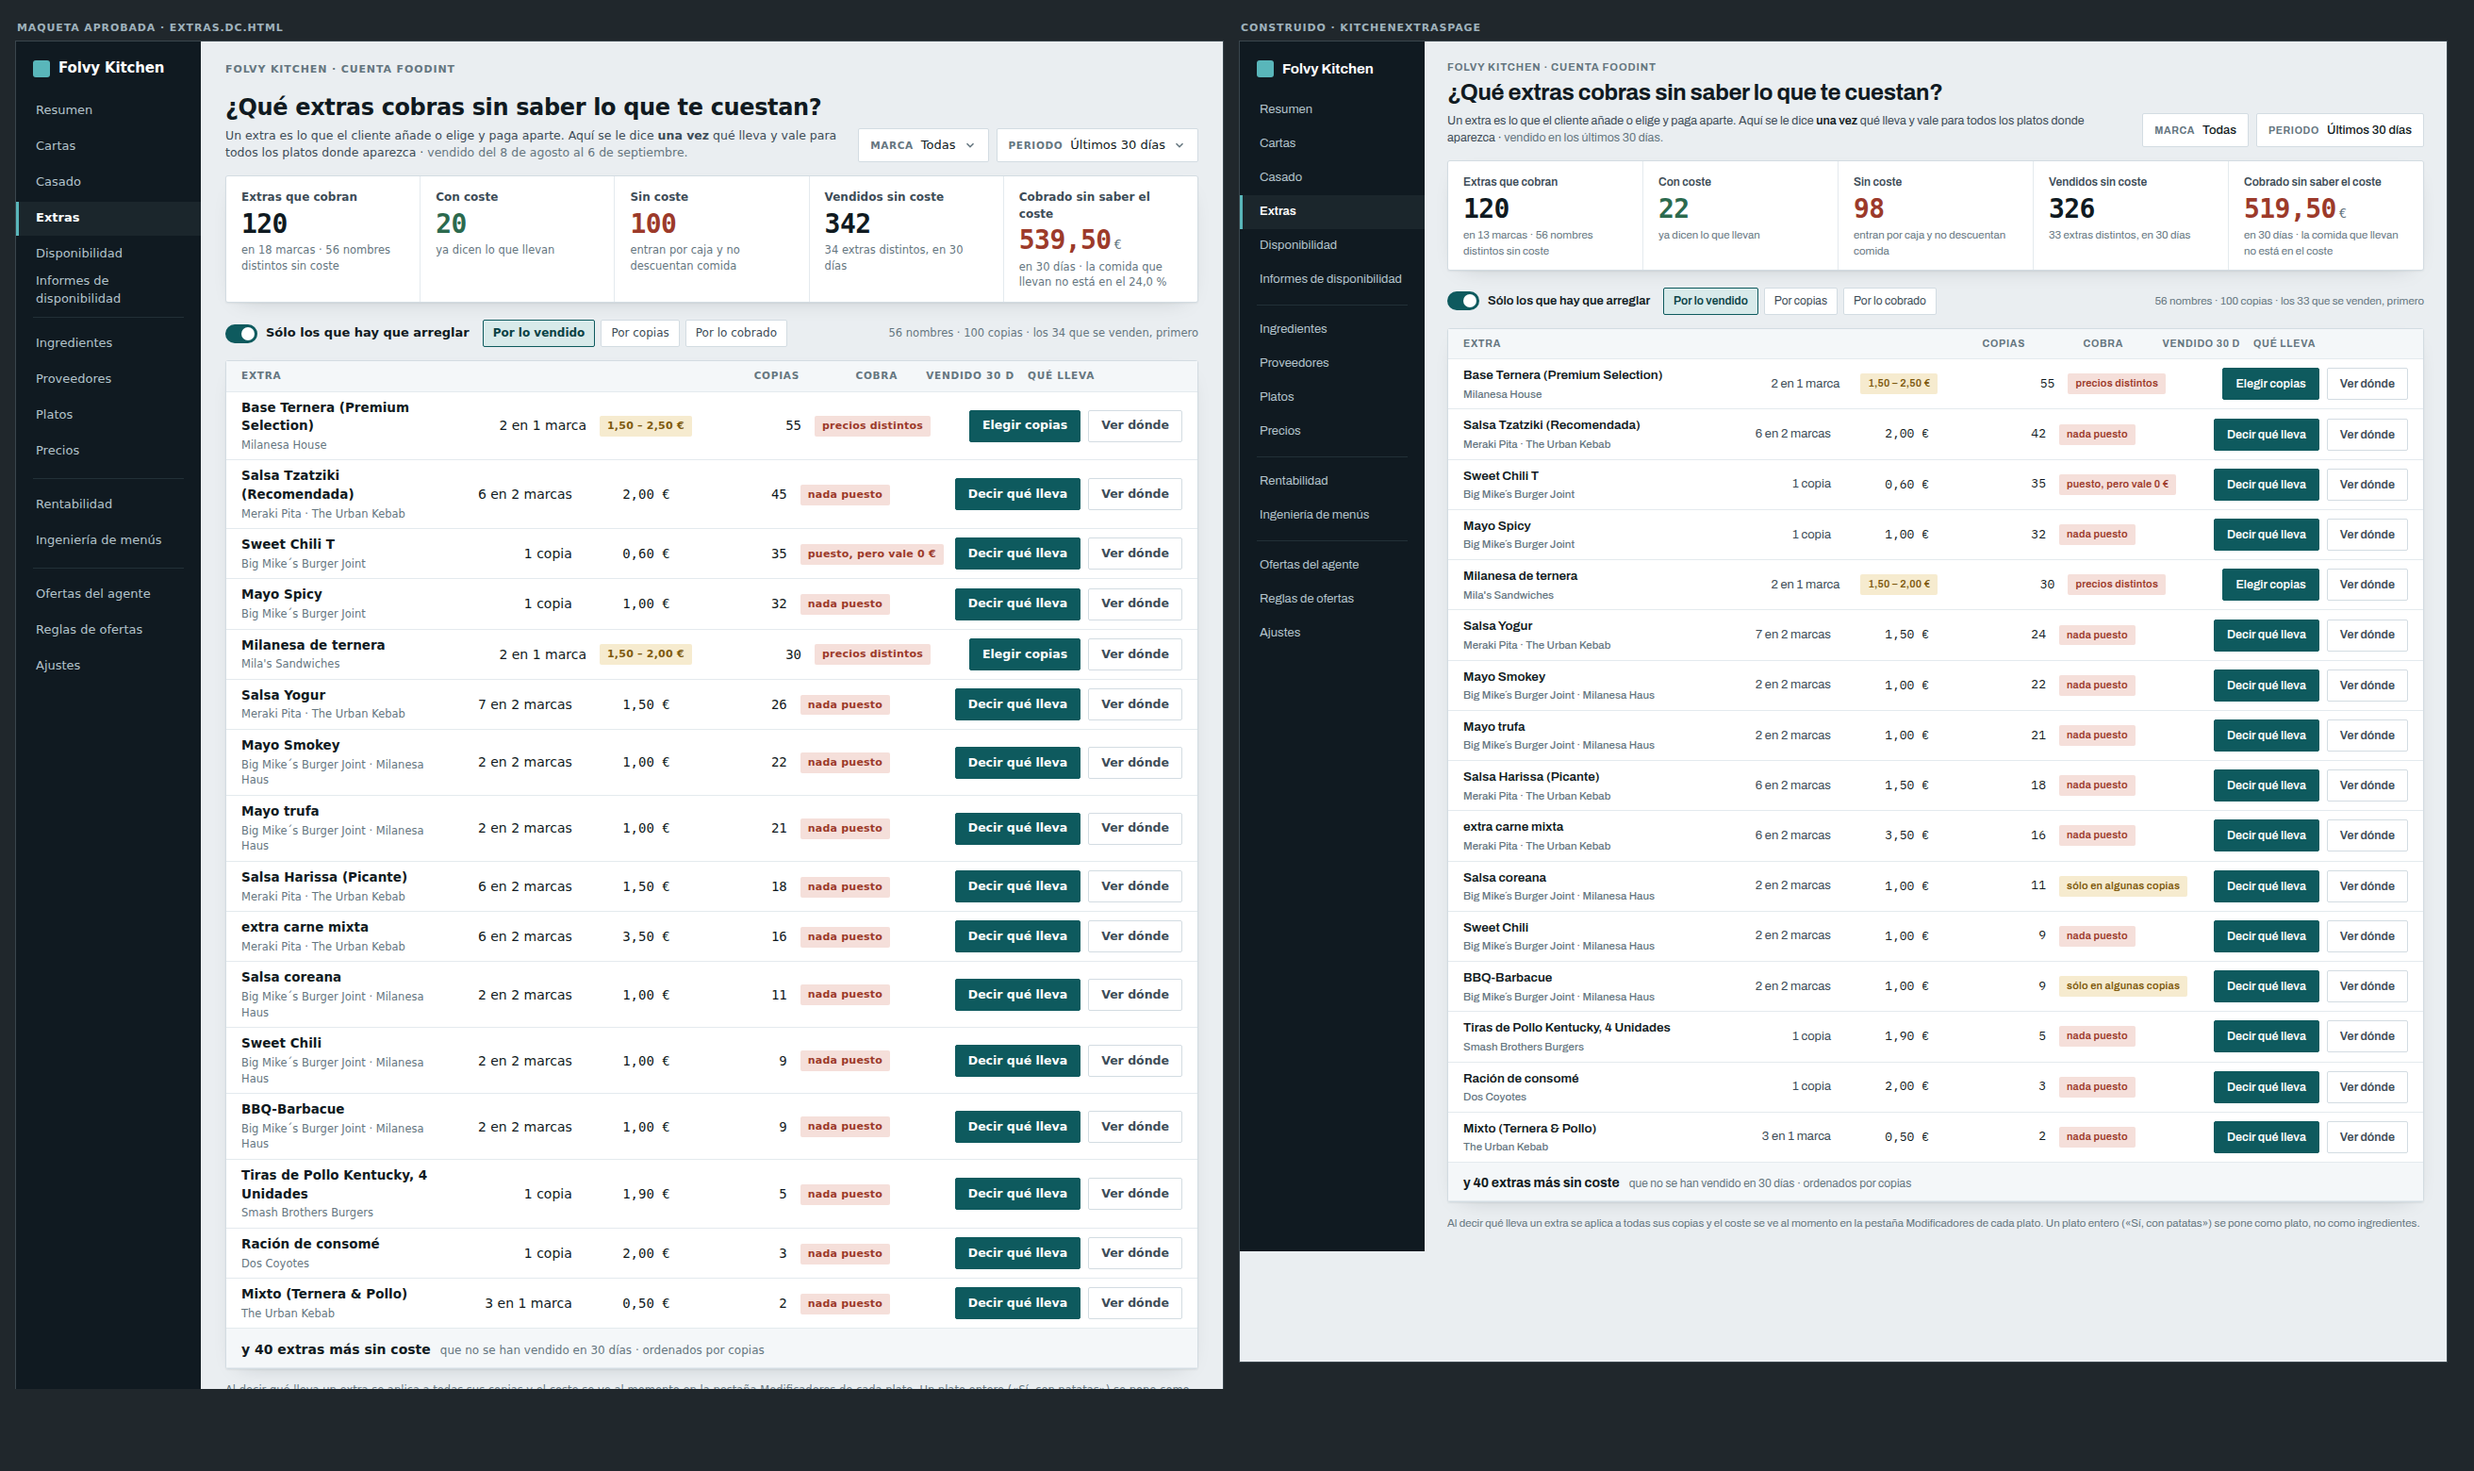
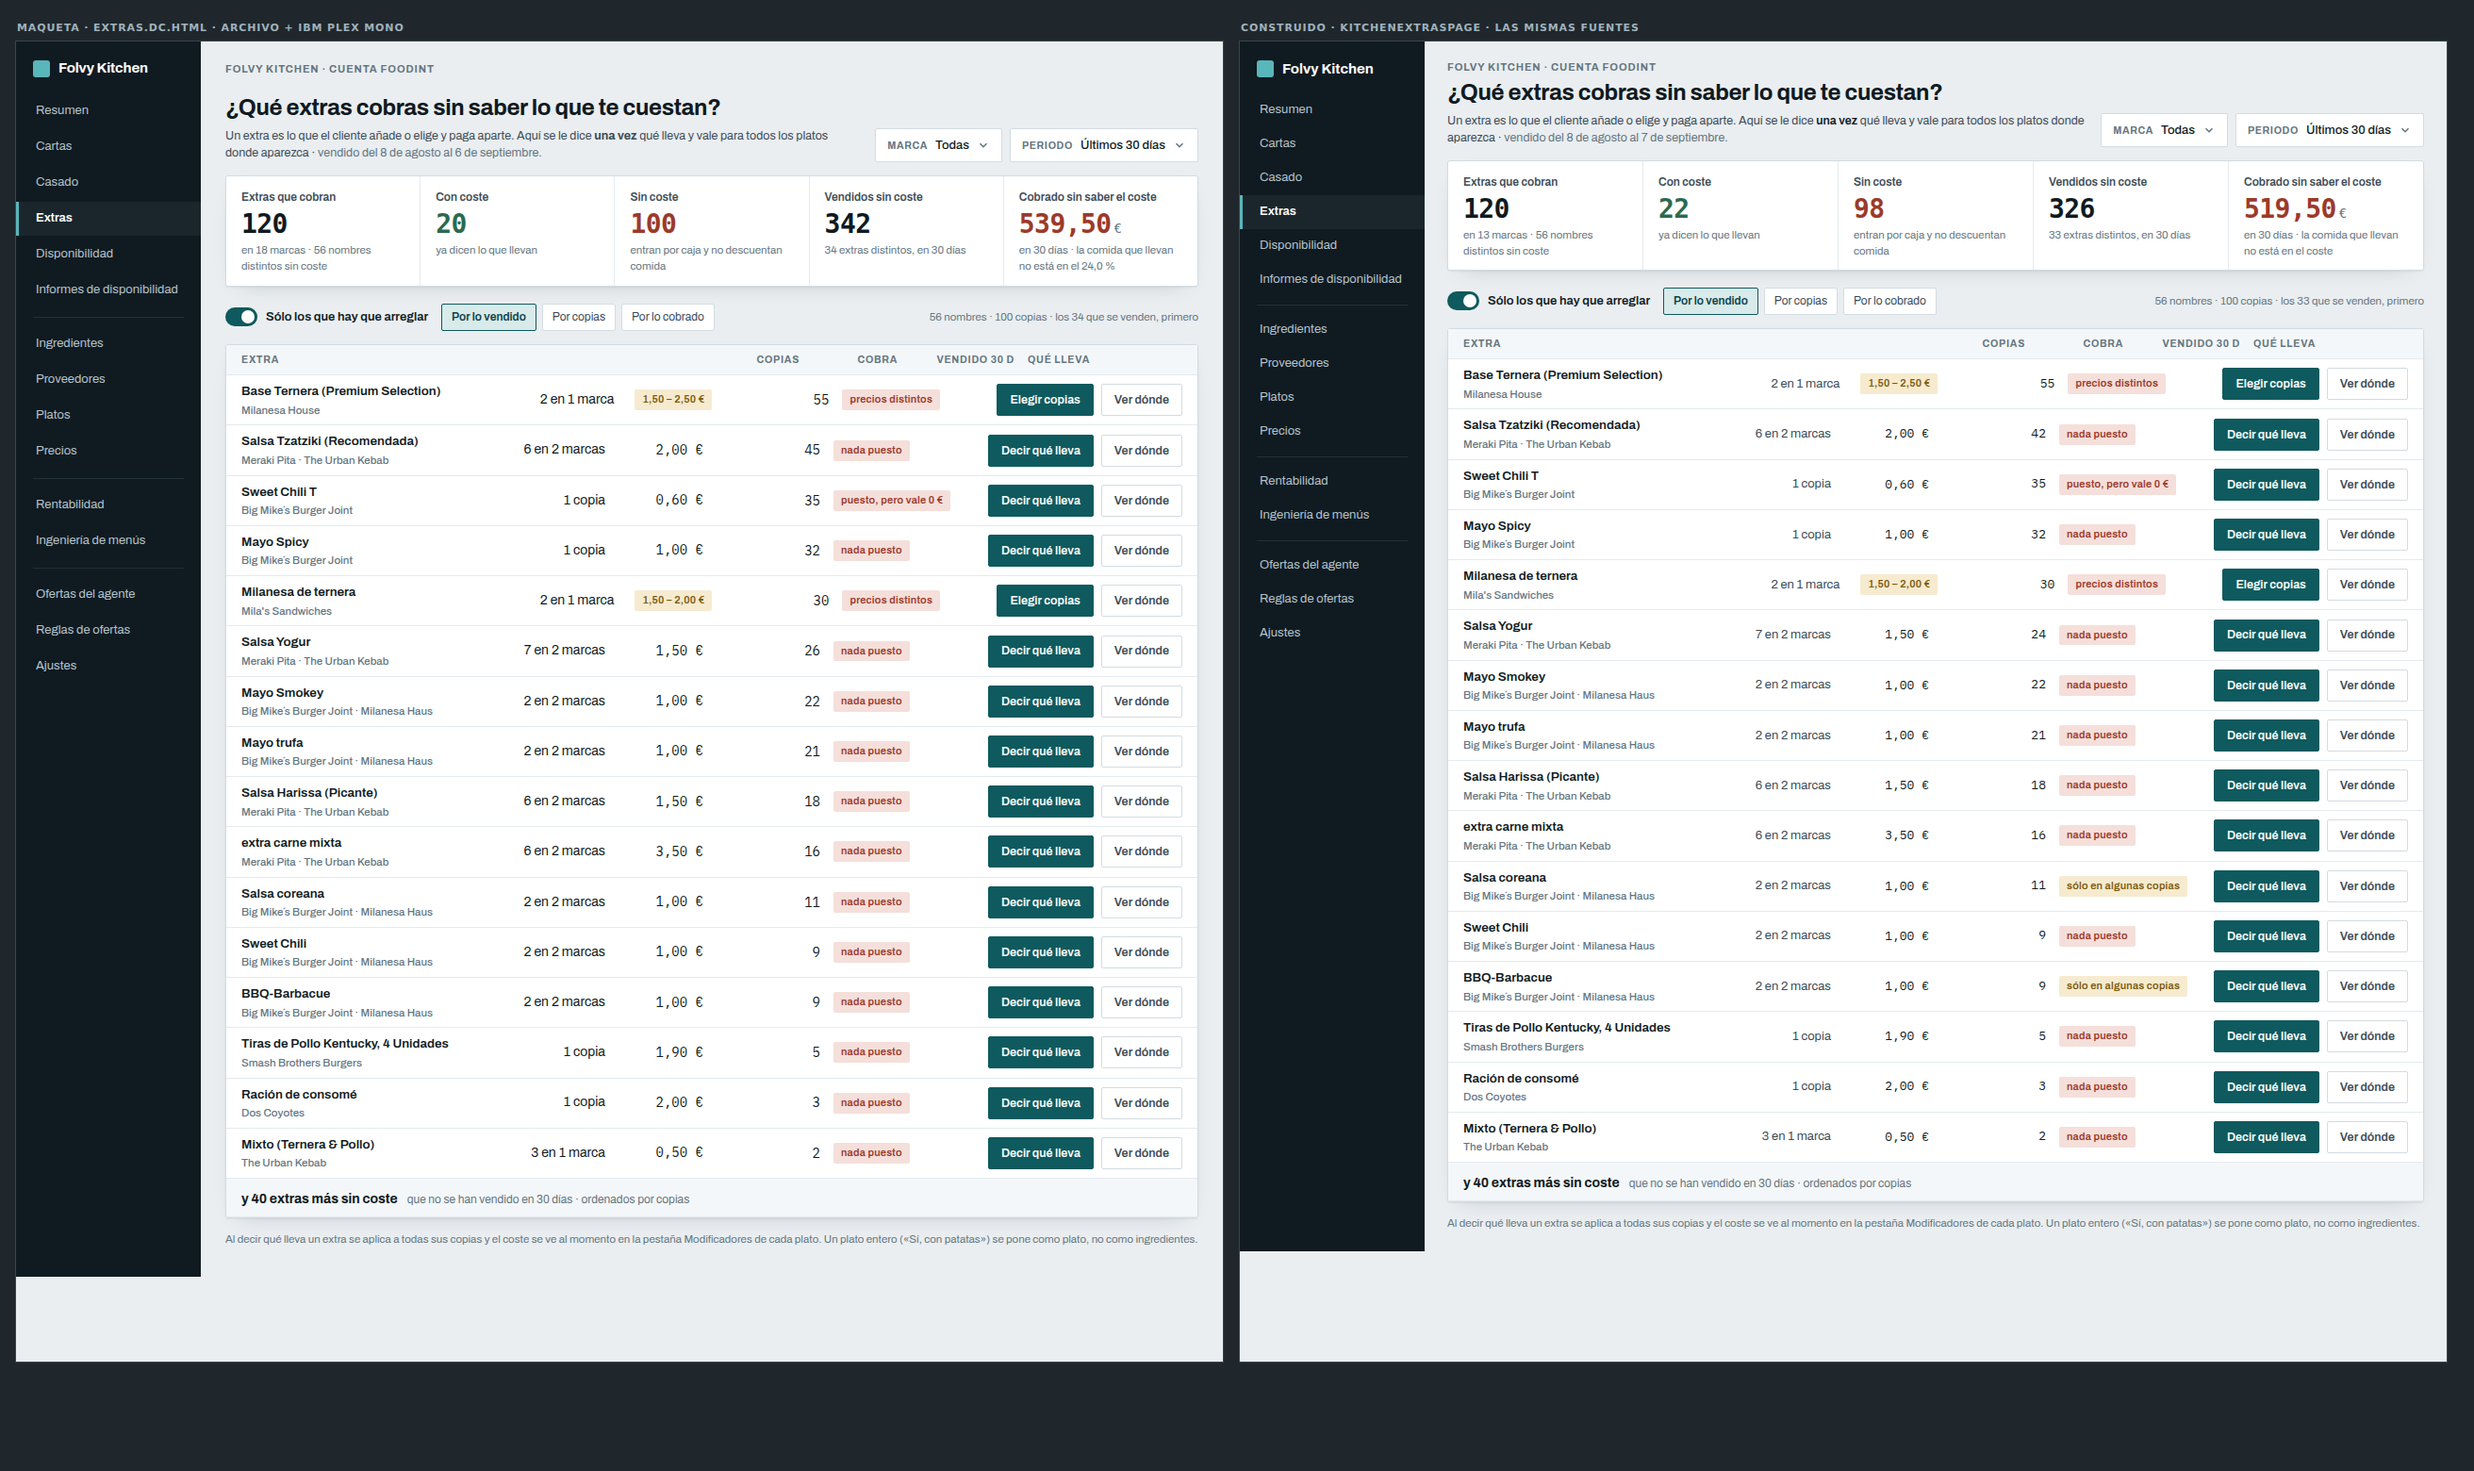
Extras: fechas reales, flecha en los selectores, y la comparación con las dos mitades en las mismas condiciones
Las tres del §14.

1. EL SUBTÍTULO PINTA LAS FECHAS. «Los últimos 30 días» obliga a echar la
   cuenta de cabeza y no dice desde cuándo, que es lo que hace falta para
   juzgar un número de ventas. Ahora: «vendido del 8 de agosto al 7 de
   septiembre», con `intervaloDeFechas` —la de Informes— y dos ajustes que
   cambian lo que dice, así que van escritos: a días enteros (con la hora tal
   cual sale «hasta las 15:00», que es el dato en Informes y ruido aquí) y con
   la medianoche de mañana como límite, porque es exclusivo: dejándolo en hoy
   diría «al 6» y se comería lo vendido hoy, que sí está contado.

   La lógica sale a `lib/` para poder probarla: 5 pruebas, incluida la del
   cambio de año y la de B82 —una fecha ilegible devuelve null y la cabecera se
   pinta, no revienta.

2. LA FLECHA en Marca y Periodo, la misma de la maqueta (14×14, trazo 1.8).
   Sin ella el campo parece una etiqueta y nadie descubre que se abre.

3. LA COMPARACIÓN TENÍA UN LADO COJO y el diagnóstico de Julio era exacto: el
   lado de la maqueta iba con DejaVu porque yo sólo había incrustado las
   fuentes en el lado construido. Todo lo que parecía diferencia de maquetación
   —nombres partidos en dos líneas, filas más altas— era artefacto de la
   tipografía. Ahora la maqueta se renderiza aquí desde su propio
   `Extras.dc.html` con Archivo e IBM Plex Mono incrustadas, igual que el
   construido: los nombres caben en una línea en los DOS lados y las alturas de
[…]

diff --git a/src/modules/kitchen/pages/KitchenExtrasPage.tsx b/src/modules/kitchen/pages/KitchenExtrasPage.tsx
@@ -22,6 +22,7 @@ import { useEffect, useMemo, useState } from 'react'
 import { ChevronRight } from 'lucide-react'
 import { useActiveAccount } from '@/modules/multitenancy/hooks/useActiveAccount'
 import { useApp } from '@/context/AppContext'
+import { intervaloDeFechas } from '@/modules/ventas/services/textoInforme'
 import EstadoDeLaConsulta from '@/modules/kitchen/components/EstadoDeLaConsulta'
 import {
   CabeceraCocina, CampoCocina, CifrasCocina, CifraCocina,
@@ -34,7 +35,7 @@ import { kindOf, TIPOS_ELEGIBLES, type CatalogPick } from '@/modules/kitchen/lib
 import type { UnidadPick } from '@/modules/kitchen/lib/impactoResuelto'
 import FlujoDeExtra from '@/modules/kitchen/components/FlujoDeExtra'
 import {
-  ORDENES, confirmacion, cuantasCopias, loQueCobra, queLleva, botonDeLaFila,
+  ORDENES, confirmacion, cuantasCopias, ventanaEnCastellano, loQueCobra, queLleva, botonDeLaFila,
   hayQueArreglarlo, ordena, parteEnDos, pieDeLaBarra, tituloDelPliegue,
   type ExtraPorNombre, type OrdenDeExtras, type CosaQueLleva,
 } from '@/modules/kitchen/lib/extrasDeCocina'
@@ -160,6 +161,13 @@ export default function KitchenExtrasPage() {
     return ordena(filas, orden)
   }, [datos, soloLosQueArreglar, marca, orden])
 
+  // Las fechas de la ventana, en castellano. La lógica vive en `lib/` para
+  // poder probarla: una frase que sitúa mal al que mira no la caza un build.
+  const intervalo = useMemo(
+    () => ventanaEnCastellano(datos?.medidoEn ?? null, datos?.ventanaDias ?? null, intervaloDeFechas),
+    [datos],
+  )
+
   const { conVentas, sinVentas } = useMemo(() => parteEnDos(visibles), [visibles])
 
   // El pie de la barra cuenta EL PROBLEMA, no lo que el filtro deja ver: «56
@@ -184,9 +192,7 @@ export default function KitchenExtrasPage() {
               Un extra es lo que el cliente añade o elige y paga aparte. Aquí se le
               dice <b className="font-semibold text-cocina-tinta">una vez</b> qué lleva
               y vale para todos los platos donde aparezca
-              {datos?.ventanaDias ? <> · <em className="not-italic text-cocina-tinta-3">
-                vendido en los últimos {datos.ventanaDias} días.
-              </em></> : null}
+              {intervalo && <> · <em className="not-italic text-cocina-tinta-3">{intervalo}.</em></>}
             </>
           }
         >

diff --git a/tests/unit/modules/kitchen/extrasDeCocina.test.ts b/tests/unit/modules/kitchen/extrasDeCocina.test.ts
@@ -251,3 +251,42 @@ describe('la frase de lo que lleva, sin jerga', () => {
     expect(t).not.toMatch(/add_item|bundle|impact/)
   })
 })
+
+// ── Qué días se está viendo ────────────────────────────────────────────────
+// La maqueta pone las fechas («vendido del 8 de agosto al 6 de septiembre») y
+// no «los últimos 30 días», que obliga a echar la cuenta de cabeza. Y es donde
+// mordió B82: una fecha ilegible NO puede tumbar la cabecera.
+import { ventanaEnCastellano } from '@/modules/kitchen/lib/extrasDeCocina'
+import { intervaloDeFechas } from '@/modules/ventas/services/textoInforme'
+
+describe('las fechas de la ventana', () => {
+  it('una ventana de 30 días medida el 07/09 se lee con sus dos fechas', () => {
+    expect(ventanaEnCastellano('2026-09-07T15:00:00', 30, intervaloDeFechas))
+      .toBe('vendido del 8 de agosto al 7 de septiembre')
+  })
+
+  // El límite de arriba es EXCLUSIVO: sin la medianoche de mañana diría «al 6»
+  // y se comería lo vendido hoy, que sí está contado.
+  it('el día de hoy entra en la frase', () => {
+    expect(ventanaEnCastellano('2026-09-07T15:00:00', 30, intervaloDeFechas))
+      .toContain('al 7 de septiembre')
+  })
+
+  // La coletilla de la hora es el dato en Informes; aquí es ruido.
+  it('no arrastra la hora', () => {
+    expect(ventanaEnCastellano('2026-09-07T15:00:00', 30, intervaloDeFechas))
+      .not.toContain('hasta las')
+  })
+
+  it('cruza el cambio de año sin romperse', () => {
+    expect(ventanaEnCastellano('2027-01-10T09:00:00', 30, intervaloDeFechas))
+      .toBe('vendido del 11 de diciembre al 10 de enero')
+  })
+
+  // B82: la cabecera se pinta aunque la fecha no se pueda leer.
+  it('una fecha ilegible devuelve null, no un error', () => {
+    expect(ventanaEnCastellano('no es una fecha', 30, intervaloDeFechas)).toBeNull()
+    expect(ventanaEnCastellano(null, 30, intervaloDeFechas)).toBeNull()
+    expect(ventanaEnCastellano('2026-09-07T15:00:00', null, intervaloDeFechas)).toBeNull()
+  })
+})

diff --git a/src/modules/kitchen/lib/extrasDeCocina.ts b/src/modules/kitchen/lib/extrasDeCocina.ts
@@ -243,3 +243,33 @@ export function frasedeLoQueLleva(cosas: CosaQueLleva[]): string {
   if (trozos.length <= 1) return trozos[0] ?? ''
   return `${trozos.slice(0, -1).join(', ')} y ${trozos[trozos.length - 1]}`
 }
+
+/**
+ * QUÉ DÍAS SE ESTÁ VIENDO, con las fechas puestas: «vendido del 8 de agosto al
+ * 7 de septiembre». «Los últimos 30 días» obliga a hacer la cuenta de cabeza y
+ * no dice desde cuándo, que es lo que hace falta para juzgar un número de
+ * ventas.
+ *
+ * Dos ajustes sobre `intervaloDeFechas`, y los dos cambian lo que dice:
+ *  · A DÍAS ENTEROS. Con la hora tal cual sale «al 7 de septiembre, hasta las
+ *    15:00». Esa coletilla es el dato en Informes; aquí es ruido.
+ *  · EL LÍMITE DE ARRIBA ES EXCLUSIVO, así que para que HOY entre en la frase
+ *    hay que pasar la medianoche de mañana. Dejarlo en hoy diría «al 6» y se
+ *    comería lo vendido hoy, que sí está contado.
+ *
+ * Devuelve `null` si la fecha no se puede leer: una cabecera sin fechas se
+ * pinta, no revienta (B82).
+ */
+export function ventanaEnCastellano(
+  medidoEn: string | null,
+  ventanaDias: number | null,
+  intervaloDeFechas: (d: Date, h: Date, o?: { minuscula?: boolean }) => string | null,
+): string | null {
+  if (!medidoEn || !ventanaDias) return null
+  const m = new Date(medidoEn)
+  if (Number.isNaN(m.getTime())) return null
+  const desde = new Date(m.getFullYear(), m.getMonth(), m.getDate() - ventanaDias)
+  const hasta = new Date(m.getFullYear(), m.getMonth(), m.getDate() + 1)
+  const t = intervaloDeFechas(desde, hasta, { minuscula: true })
+  return t ? `vendido ${t}` : null
+}

diff --git a/src/modules/kitchen/components/PatronDeKitchen.tsx b/src/modules/kitchen/components/PatronDeKitchen.tsx
@@ -72,12 +72,20 @@ export function Cifra({
 // obliga a envolver la pantalla, que es lo que hace la migración explícita en
 // vez de silenciosa.
 
-/** `.sel` de la maqueta: el campo de la cabecera, con su etiqueta dentro. */
+/**
+ * `.sel` de la maqueta: el campo de la cabecera, con su etiqueta dentro y la
+ * FLECHA al final. La flecha no es adorno: sin ella el campo parece una
+ * etiqueta y nadie descubre que se abre.
+ */
 export function CampoCocina({ label, children }: { label: string; children: ReactNode }) {
   return (
-    <label className="inline-flex items-center gap-2 h-9 px-3 border border-cocina-linea bg-cocina-superficie rounded-cocina text-[13px] font-medium text-cocina-tinta">
+    <label className="inline-flex items-center gap-2 h-9 px-3 border border-cocina-linea bg-cocina-superficie rounded-cocina text-[13px] font-medium text-cocina-tinta cursor-pointer">
       <span className="text-[10.5px] font-bold tracking-[0.06em] uppercase text-cocina-tinta-3">{label}</span>
       {children}
+      {/* La misma que la maqueta: 14×14, trazo 1.8, sin relleno. */}
+      <svg viewBox="0 0 16 16" className="w-3.5 h-3.5 shrink-0 stroke-cocina-tinta-3 fill-none" strokeWidth={1.8}>
+        <path d="M4 6l4 4 4-4" />
+      </svg>
     </label>
   )
 }

diff --git a/tests/unit/modules/kitchen/capturaExtras.test.tsx b/tests/unit/modules/kitchen/capturaExtras.test.tsx
@@ -92,7 +92,7 @@ it('genera la captura de Extras a 1280', () => {
           pregunta="¿Qué extras cobras sin saber lo que te cuestan?"
           regla={<>Un extra es lo que el cliente añade o elige y paga aparte. Aquí se le dice{' '}
             <b className="font-semibold text-cocina-tinta">una vez</b> qué lleva y vale para todos los
-            platos donde aparezca · <em className="not-italic text-cocina-tinta-3">vendido en los últimos 30 días.</em></>}
+            platos donde aparezca · <em className="not-italic text-cocina-tinta-3">vendido del 8 de agosto al 7 de septiembre.</em></>}
         >
           <CampoCocina label="Marca"><span>Todas</span></CampoCocina>
           <CampoCocina label="Periodo"><span>Últimos 30 días</span></CampoCocina>
